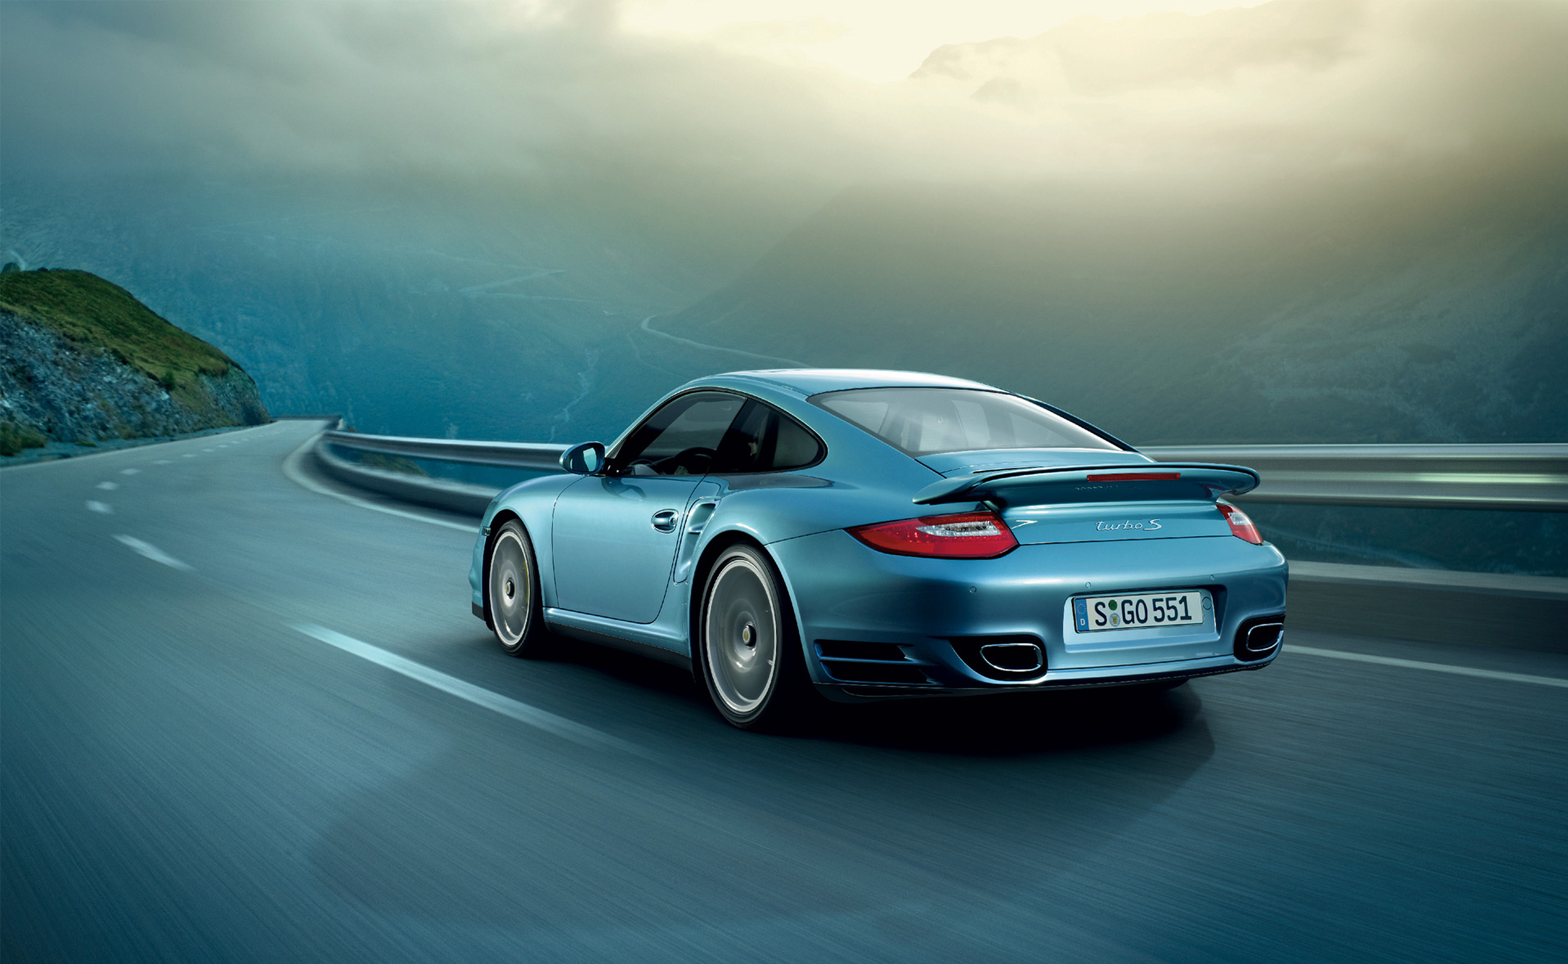
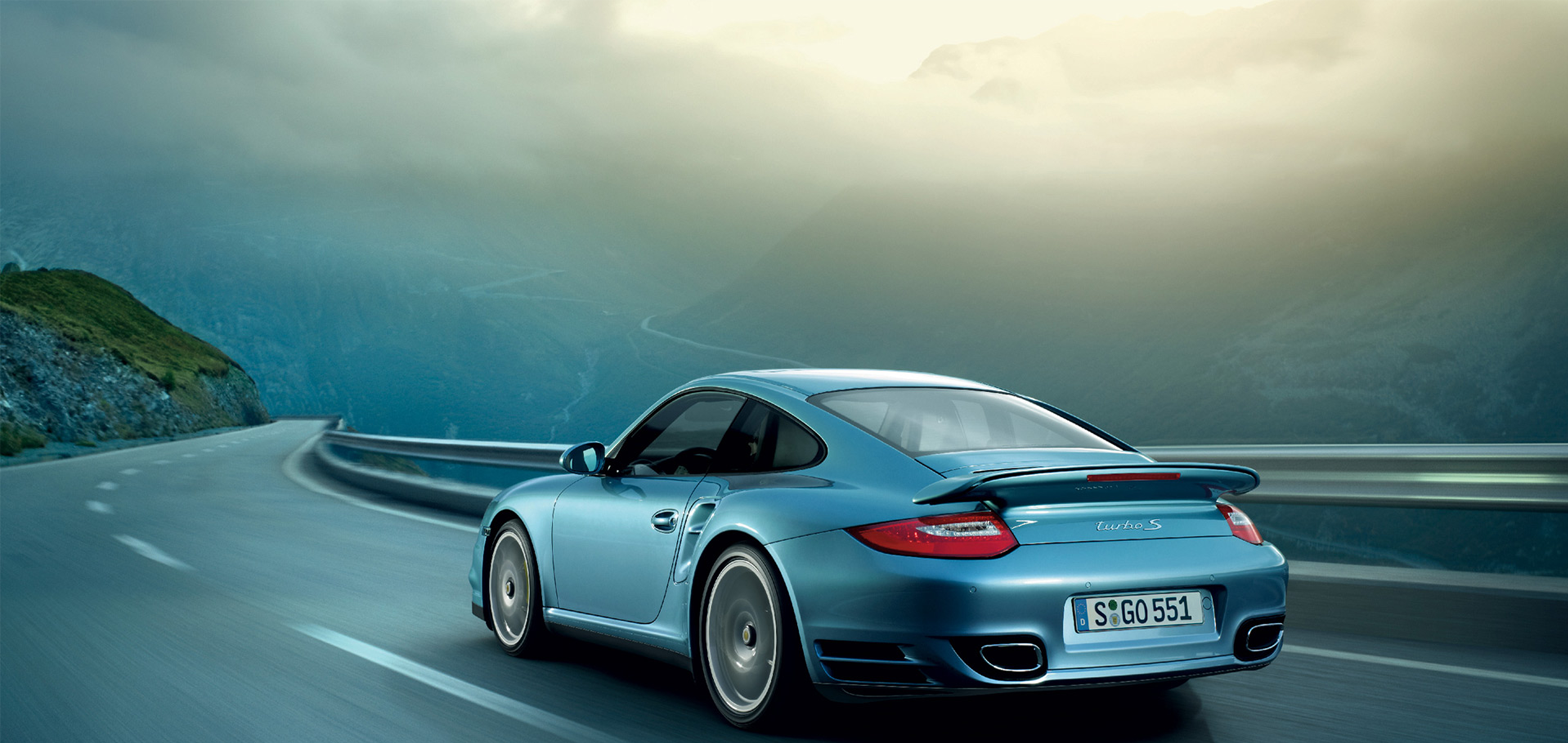
set fix background

diff --git a/frontend/src/containers/HomePage.module.css b/frontend/src/containers/HomePage.module.css
@@ -23,4 +23,7 @@
 .Backgroundimg{
     background-image: url("../images/HomePage.png");
     padding: 120px 120px;
+    background-repeat: no-repeat;
+    background-attachment: fixed;
+    background-position: center; 
 }
